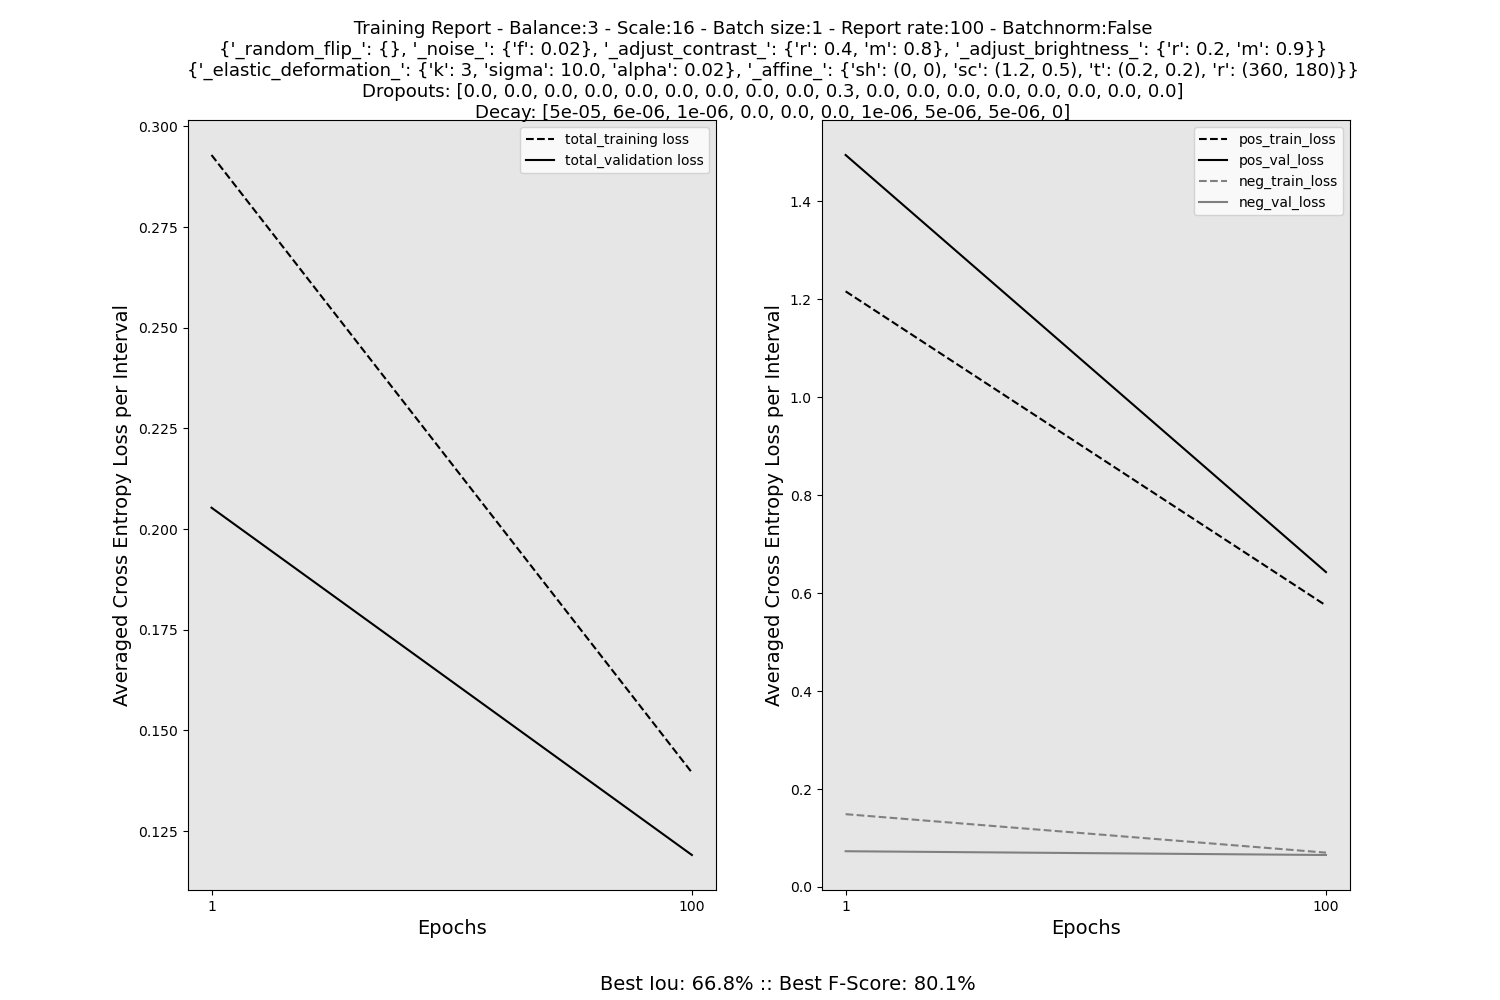
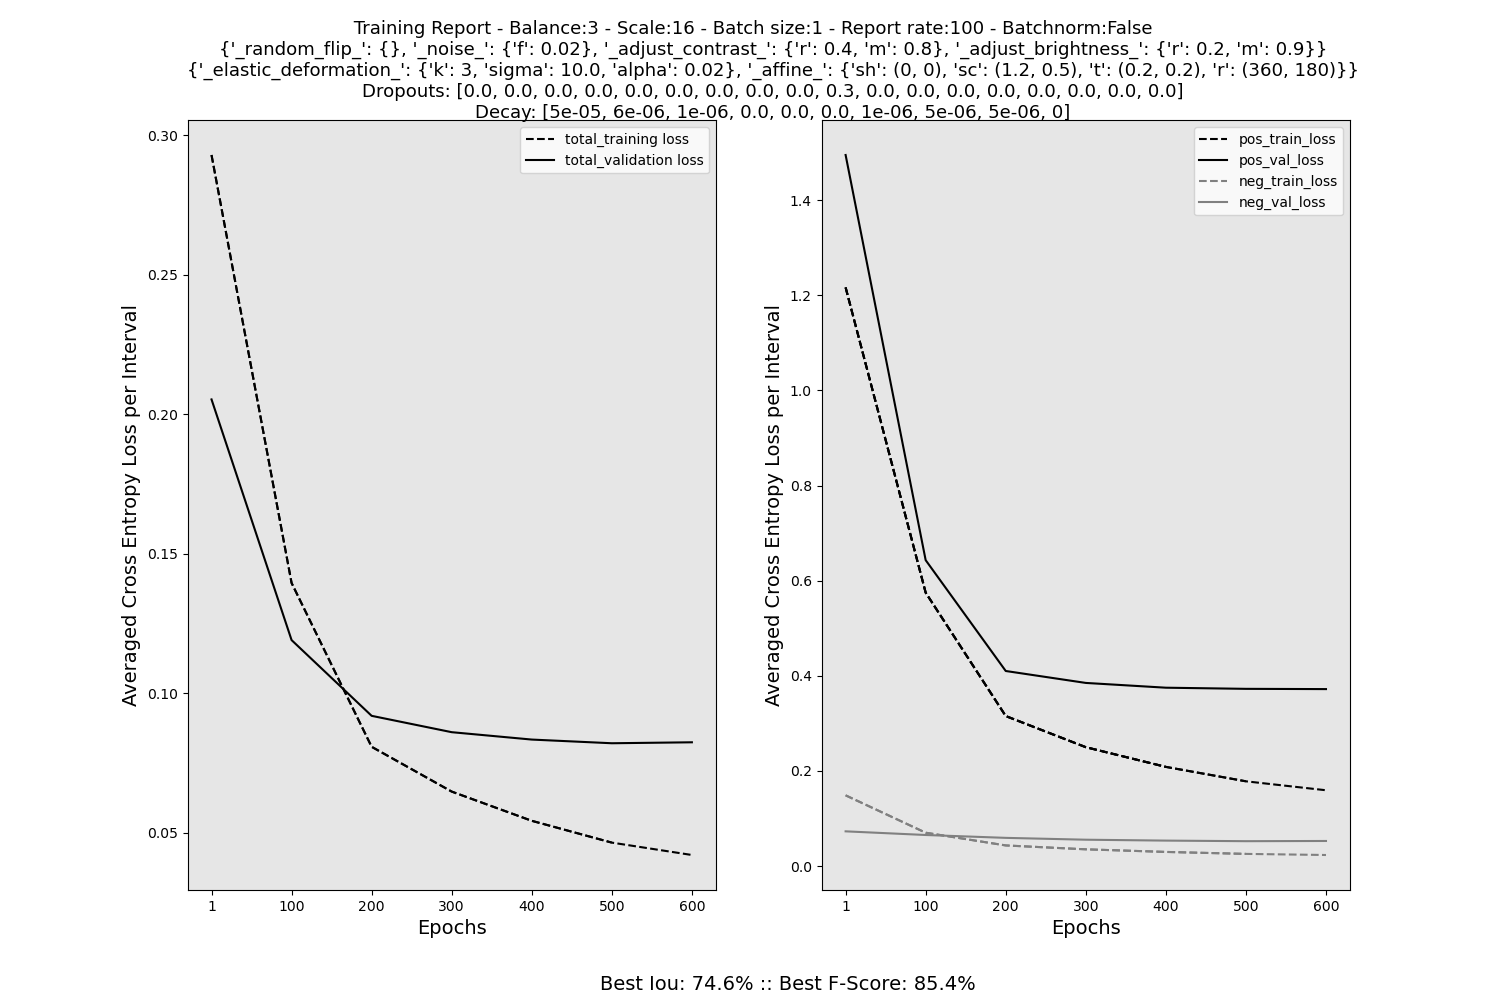
--

diff --git a/model_architecture.py b/model_architecture.py
@@ -26,19 +26,19 @@ class BuildingsModel(nn.Module):
                                         dropout=(dropouts[8], dropouts[9]))
         self.up_1 = UpSamplingBlock(self.down_5.conv2.out_channels, 2,
                                     skip_channels=self.down_4.conv2.out_channels,
-                                    dropout=(dropouts[10], dropouts[11]))
+                                    dropout=(dropouts[10], dropouts[11], dropouts[12]))
         self.up_2 = UpSamplingBlock(self.up_1.conv2.out_channels, 2,
                                     skip_channels=self.down_3.conv2.out_channels,
-                                    dropout=(dropouts[12], dropouts[13]))
+                                    dropout=(dropouts[13], dropouts[14], dropouts[15]))
         self.up_3 = UpSamplingBlock(self.up_2.conv2.out_channels, 2,
                                     skip_channels=self.down_2.conv2.out_channels,
-                                    dropout=(dropouts[14], dropouts[15]))
+                                    dropout=(dropouts[16], dropouts[17], dropouts[18]))
         self.up_4 = UpSamplingBlock(self.up_3.conv2.out_channels, 2,
                                     skip_channels=self.down_1.conv2.out_channels,
-                                    dropout=(dropouts[16], dropouts[17]))
-        self.z = nn.Conv2d(self.up_4.conv2.out_channels,
-                           out_channels=2,
-                           kernel_size=1)
+                                    dropout=(dropouts[19], dropouts[20], dropouts[21]))
+        self.zconv = nn.Conv2d(self.up_4.conv2.out_channels,
+                               out_channels=2,
+                               kernel_size=1)
         self.prob = nn.Softmax(dim=-3)
         self.__init_weights__()
 
@@ -46,7 +46,7 @@ class BuildingsModel(nn.Module):
         for m in self.modules():
             if type(m) in {nn.Conv2d, nn.ConvTranspose2d}:
                 fan_in, fan_out = \
-                nn.init._calculate_fan_in_and_fan_out(m.weight.data)
+                    nn.init._calculate_fan_in_and_fan_out(m.weight.data)
                 std = np.sqrt(2 / fan_in)
                 # nn.init.normal_(m.weight.data, 0, std)
                 nn.init.kaiming_normal_(m.weight.data,
@@ -54,24 +54,24 @@ class BuildingsModel(nn.Module):
                                         nonlinearity='relu')
                 if m.bias is not None:
                     fan_in, fan_out = \
-                    nn.init._calculate_fan_in_and_fan_out(m.weight.data)
+                        nn.init._calculate_fan_in_and_fan_out(m.weight.data)
                     std = 1 / np.sqrt(fan_in)
                     # nn.init.normal_(m.bias, 0, std)
                     m.bias.data.fill_(0)
 
     def _register_hooks_(self):
         self.activations = {}
-        
+
         def get_activation(name):
             def hook(model, input, output):
                 self.activations[name] = output.cpu().detach()
                 self.hooks[name].remove()
             return hook
-        
+
         for n, m in self.named_modules():
             if type(m) == nn.ReLU:
                 self.hooks[n] = m.register_forward_hook(get_activation(n))
-    
+
     def forward(self, x):
         x, skip_connection_4 = self.down_1(x)
         x, skip_connection_3 = self.down_2(x)
@@ -82,7 +82,7 @@ class BuildingsModel(nn.Module):
         x = self.up_2(x, skip_connection_2)
         x = self.up_3(x, skip_connection_3)
         x = self.up_4(x, skip_connection_4)
-        z = self.z(x)
+        z = self.zconv(x)
         a = self.prob(z)
         return z, a
 
@@ -131,32 +131,34 @@ class UpSamplingBlock(nn.Module):
     def __init__(self, in_channels: int,
                  channel_down_factor: int,
                  skip_channels: int,
-                 dropout: Tuple = (0, 0)):
+                 dropout: Tuple = (0, 0, 0)):
         super().__init__()
         out_channels = in_channels // channel_down_factor
-        self.transpose2d = nn.ConvTranspose2d(in_channels,
+        self.transpose_conv2d = nn.ConvTranspose2d(in_channels,
                                               out_channels,
                                               kernel_size=3,
                                               stride=2,
                                               padding=1,
                                               output_padding=1)
+        self.dropout = nn.Dropout2d(dropout[0])
         self.conv1 = nn.Conv2d(out_channels+skip_channels,
                                out_channels,
                                kernel_size=3,
                                stride=1,
                                padding=1)
         self.activation1 = nn.ReLU()
-        self.dropout1 = nn.Dropout2d(dropout[0])
+        self.dropout1 = nn.Dropout2d(dropout[1])
         self.conv2 = nn.Conv2d(out_channels,
                                out_channels,
                                kernel_size=3,
                                stride=1,
                                padding=1)
         self.activation2 = nn.ReLU()
-        self.dropout2 = nn.Dropout2d(dropout[1])
+        self.dropout2 = nn.Dropout2d(dropout[2])
 
     def forward(self, x: Tensor, skip_connection: Tensor) -> Tensor:
-        x = self.transpose2d(x)
+        x = self.transpose_conv2d(x)
+        x = self.dropout(x)
         x = torch.cat([x, skip_connection], -3)
         x = self.conv1(x)
         x = self.activation1(x)

diff --git a/model_training.py b/model_training.py
@@ -41,9 +41,9 @@ class Training:
         self.epoch = 1
         self.argv = parser.parse_args(argv)
         if len(self.argv.l2) == 1:
-            self.argv.l2 *= 9
+            self.argv.l2 *= 23
         if len(self.argv.dropouts) == 1:
-            self.argv.dropouts *= 18
+            self.argv.dropouts *= 23
         self.report_rate = self.argv.report_rate or self.argv.epochs // 10
         self.check_rate = self.argv.check_rate or self.argv.epochs // 10
         if self.argv.reload:
@@ -130,8 +130,8 @@ class Training:
         )
         self.pred_fig, self.pred_axes = plt.subplots(2, 3, figsize=(15, 10))
         self.act_fig, self.act_axes = plt.subplots(3, 6, figsize=(15, 10))
-        self.grad_fig, self.grad_axes = plt.subplots(3, 6, figsize=(15, 10))
-        self.weight_fig, self.weight_axes = plt.subplots(3, 6, figsize=(15, 10))
+        self.grad_fig, self.grad_axes = plt.subplots(4, 6, figsize=(15, 10))
+        self.weight_fig, self.weight_axes = plt.subplots(4, 6, figsize=(15, 10))
         self.act_axes = self.act_axes.flatten()
         self.grad_axes = self.grad_axes.flatten()
         self.weight_axes = self.weight_axes.flatten()
@@ -144,7 +144,7 @@ class Training:
 
     def __init_stats__(self):
         self.grad_stats = {n:torch.zeros(m.weight.shape)
-                           for n, m in self.model.named_modules() if 'conv' in n}
+                           for n, m in self.model.named_modules() if 'conv' in n or 'transpose' in n}
         self.weight_stats = {}
         self.stat_denom = 0
 
@@ -273,27 +273,13 @@ class Training:
         """
         Isolating each block for more control
         """
+        self.argv.l2 = iter(self.argv.l2)
         opt = optim.Adam([
-            {'params': self.model.down_1.parameters(),
-             'weight_decay': self.argv.l2[0]},
-            {'params': self.model.down_2.parameters(),
-             'weight_decay': self.argv.l2[1]},
-            {'params': self.model.down_3.parameters(),
-             'weight_decay': self.argv.l2[2]},
-            {'params': self.model.down_4.parameters(),
-             'weight_decay': self.argv.l2[3]},
-            {'params': self.model.down_5.parameters(),
-             'weight_decay': self.argv.l2[4]},
-            {'params': self.model.up_1.parameters(),
-             'weight_decay': self.argv.l2[5]},
-            {'params': self.model.up_2.parameters(),
-             'weight_decay': self.argv.l2[6]},
-            {'params': self.model.up_3.parameters(),
-             'weight_decay': self.argv.l2[7]},
-            {'params': self.model.up_4.parameters(),
-             'weight_decay': self.argv.l2[8]},
-            {'params': [*self.model.z.parameters(),
-                        *self.model.prob.parameters()]}
+
+            {'params': m.parameters(),
+             'weight_decay': self.argv.l2.__next__()} for (n, m) in self.model.named_modules()
+             if 'conv' in n
+            
         ],
             lr=self.argv.lr,
             weight_decay=0,
@@ -457,7 +443,7 @@ class Training:
         """
         with torch.no_grad():
             for n, m in self.model.named_modules():
-                if 'conv' in n:
+                if 'conv' in n or 'transpose' in n:
                     self.grad_stats[n] += m.weight.grad.cpu()
         self.stat_denom += 1
 
@@ -478,7 +464,7 @@ class Training:
     def __monitor_weights__(self, epoch):
         i = 0
         for n, m in self.model.named_modules():
-            if 'conv' in n:
+            if 'conv' in n or 'transpose' in n:
                 self.weight_axes[i].set_title(n)
                 self.weight_axes[i].barh(torch.arange(m.weight.size(0)),
                                          m.weight.detach().cpu().norm(2, (-1, -2, -3)), 1)

diff --git a/data_loader.py b/data_loader.py
@@ -195,10 +195,15 @@ def make_training_hdf5(train_tiles=512, val_tiles=512):
             Y_valid_neg = Y_neg[neg_idx[:val_neg_samples]]
 
             if train_tiles != val_tiles:
-                X_train, Y_train = to_tiles(
-                    X_train, Y_train, tile_size=train_tiles
+                X_train_pos, Y_train_pos = to_tiles(
+                    X_train_pos, Y_train_pos, tile_size=train_tiles
                 )
-                X_train, Y_train = clean_tiles(X_train, Y_train)
+                X_train_pos, Y_train_pos = clean_tiles(X_train_pos, Y_train_pos)
+
+                X_train_neg, Y_train_neg = to_tiles(
+                    X_train_neg, Y_train_neg, tile_size=train_tiles
+                )
+                X_train_neg, Y_train_neg = clean_tiles(X_train_neg, Y_train_neg)
 
             # X_train_pos, Y_train_pos, X_train_neg, Y_train_neg = \
             #     separate_labels(X_train, Y_train)
@@ -570,14 +575,14 @@ class Buildings(Dataset):
         # image, label = self._random_crop_([image, label], 256)
         image, label = self._random_flip_([image, label])
         image = self._noise_(image, f=0.02)
-        image = self._adjust_contrast_(image, r=0.4, m=.8)
+        image = self._adjust_contrast_(image, r=.4, m=.8)
         image = self._adjust_brightness_(image, r=0.2, m=.9)
         image, label = self._elastic_deformation_([image, label],
                                                   k=3,
                                                   sigma=10.,
                                                   alpha=0.02)
         image, label = self._affine_([image, label.unsqueeze(0)],
-                                     sh=(0, 0), sc=(1.2, 0.5),
+                                     sh=(30, 15), sc=(.75, 0.75),
                                      t=(0.2, 0.2), r=(360, 180))
         return image, label.to(torch.long).squeeze(0)
 

diff --git a/CLI_parser.py b/CLI_parser.py
@@ -36,7 +36,7 @@ parser.add_argument("--monitor", "-m",
                     action='store_const')
 parser.add_argument("--l2",
                     help='L2 Regularization parameters. Sequence of length 5. Applied like dropouts.',
-                    default=[0.]*9,
+                    default=[0.]*23,
                     type=float,
                     nargs='+')
 parser.add_argument("--reload",
@@ -68,7 +68,7 @@ parser.add_argument("--report-rate",
                     Default: EPOCHS // 10
                     """)
 parser.add_argument('--dropouts', '-d', type=float,
-                    nargs='+', default=[0.]*18,
+                    nargs='+', default=[0.]*23,
                     help='Sequence of length 5. Dropout probabilities for each NN block (positions 0-4). Applied symmetrically.')
 parser.add_argument('--weights', '-w',
                     type=float,
